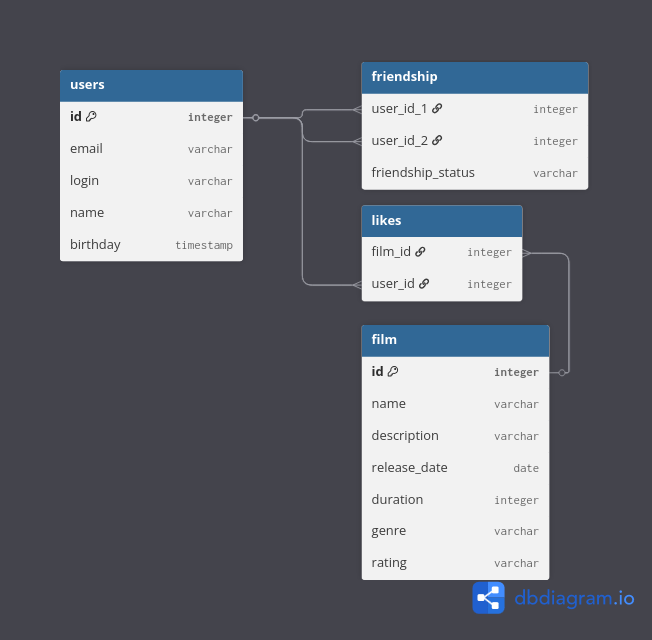
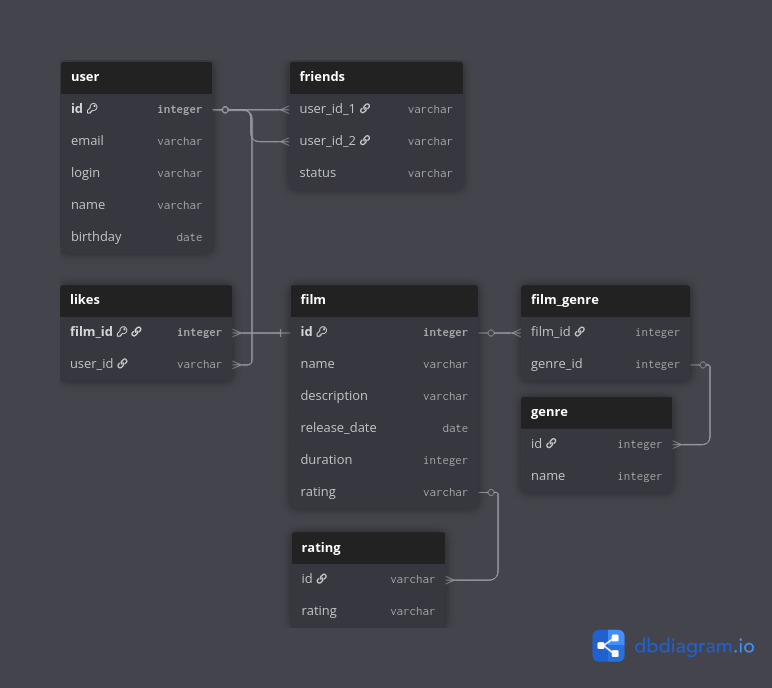
fix ER diagram

diff --git a/README.md b/README.md
@@ -1,3 +1,4 @@
 # java-filmorate
 Template repository for Filmorate project.
-![db desig](/assets/images/db_design.png)
+
+![db design](/assets/images/db_design.png)
